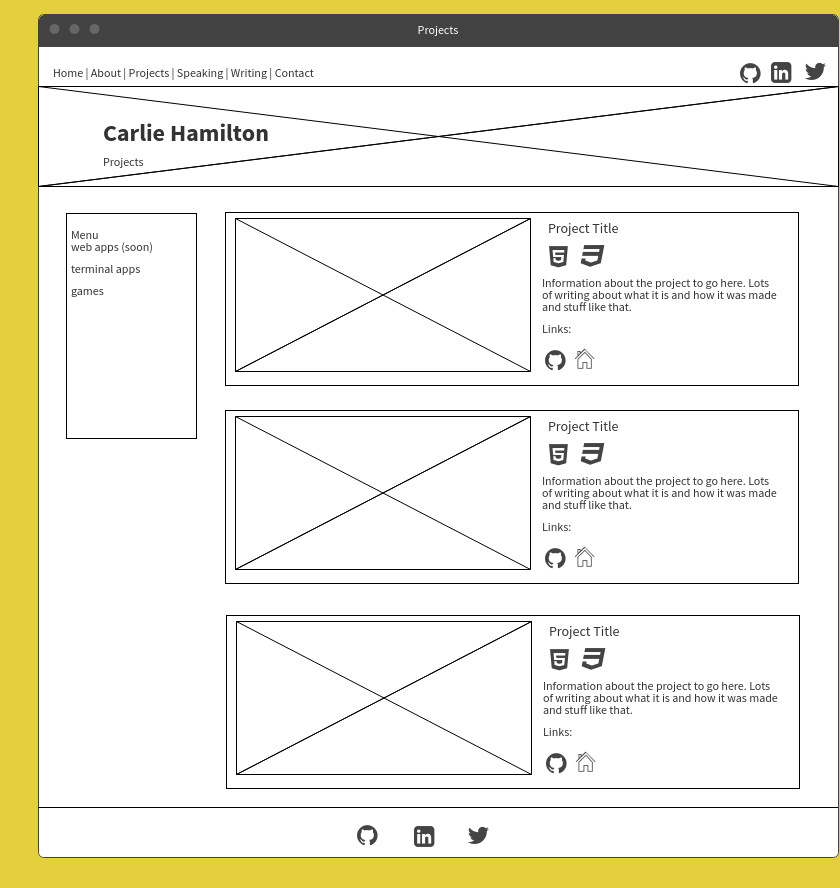
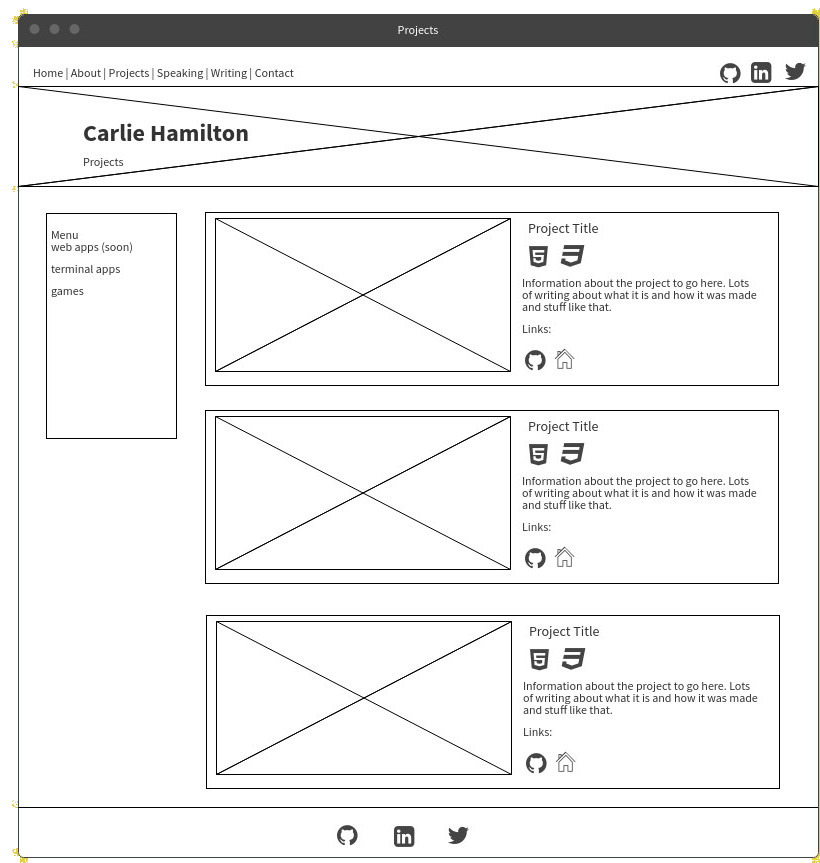
added an extra wireframe to readme

diff --git a/README.md b/README.md
@@ -86,7 +86,7 @@ The main sections are:
 
 ### Tech stack (e.g. html, css, deployment platform, etc)
 
-The website was designed with html, scss and javascript.
+The website was designed with html, scss (using flexbox and grid), and javascript.
 
 For the purposes of assessment, the website has been deployed on [netlify](http://carlie.netlify.com), but it's permanent home at the moment is on SiteGround at [CarlieHamilton.com](http://carliehamilton.com)
 
@@ -119,15 +119,25 @@ I chose navy blue because it is my favourite colour and hot pink because that is
 
 Because pink is a really bright colour, I thought it would be better in small doses. I added a green colour incase I needed it, and an offwhite colour as well.
 
-I wanted sans serif fonts for easy readability on the screen. I wanted a mono space font for special highlighting, maybe for image captions. I chose two other sans serif fonts for headers and general text.
+I wanted sans serif fonts for easy readability on the screen. I wanted a mono space font for special highlighting, maybe for image captions. I chose two other sans serif fonts for headers and general text. As I implemented the page, I didn't think the Oxygen font looked quite right, so instead replaced it with "Muli". The mono-space font ended up not being needed.
 
 ### Wireframes
+
+Original Wire Frames:
 
 ![wireframes](/docs/wireframe01.png)
 ![wireframes](/docs/wireframe2.jpeg)
 ![wireframes](/docs/wireframes3.png)
 
-In my wireframes I have created a layout for mobile as well as a larger version for desktop and tablet. I have an almost one page design with a separate page to expand on my portfolio items.
+In my wireframes I have created a layout for mobile as well as a larger version for desktop and tablet. Originally I had an almost one page design with a separate page to expand on my portfolio items.
+
+As the page was designed, the social media icons were removed from the top navigation (of the desktop version), and instead were placed in the header section.
+
+Originally, the projects section was to be a preview that then expanded into a page of their own. I decided it would be more cohesive to keep them on the one page. I also planned to have each project be displayed in a box horizontally with the image to the left and the information to the right (in desktop view). When designing, however, I felt like there was too much white space. So, instead, I kept the projects laid out vertically, like on the mobile version, and instead divided them in to two columns.
+
+![updated wireframe](/docs/wireframe4.jpeg)
+
+Another change from the wireframes was the originally I was to have explicit boxes around my content. As the website was being built it became clear that the explicit boxes looked off, and instead the content boxes are the same background as the rest of their section.
 
 ### Logo
 
